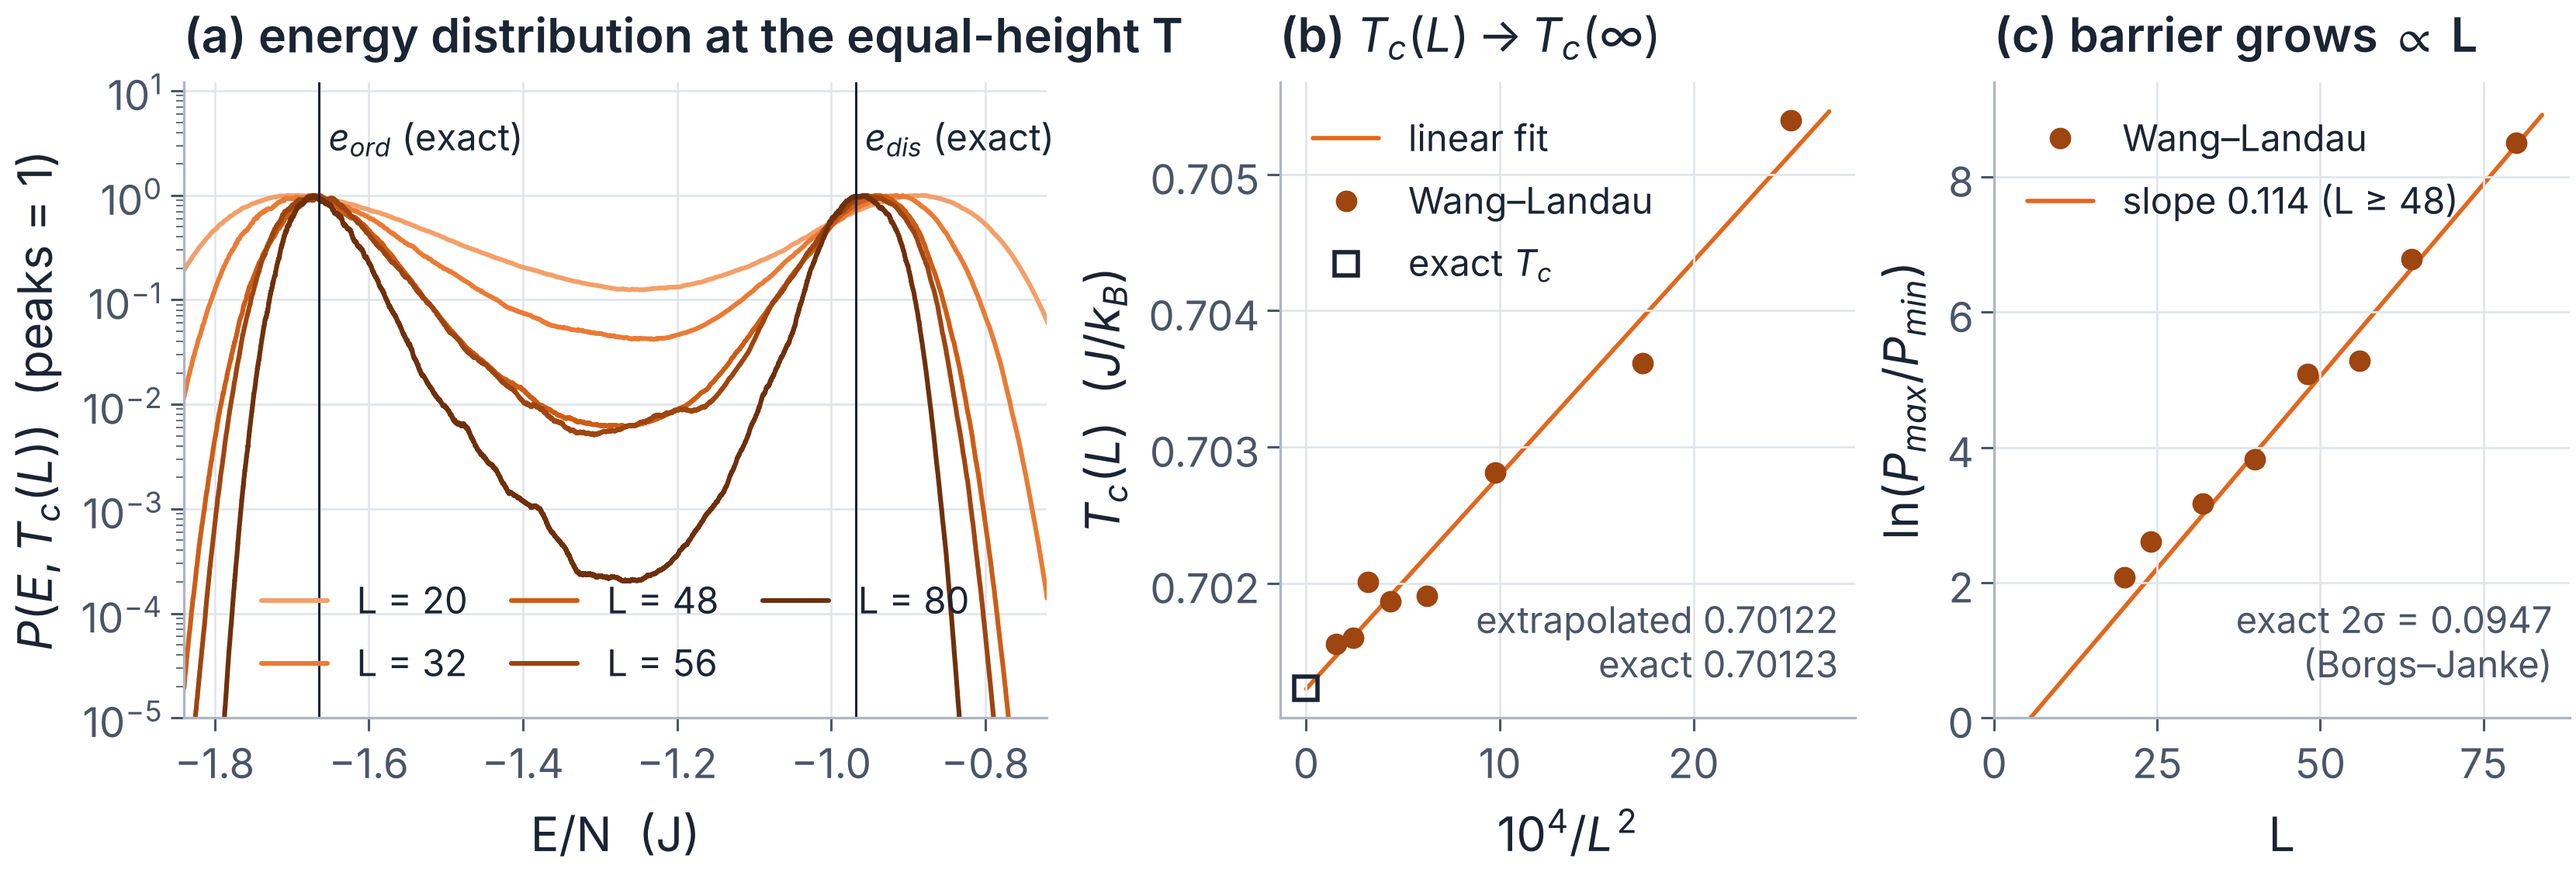
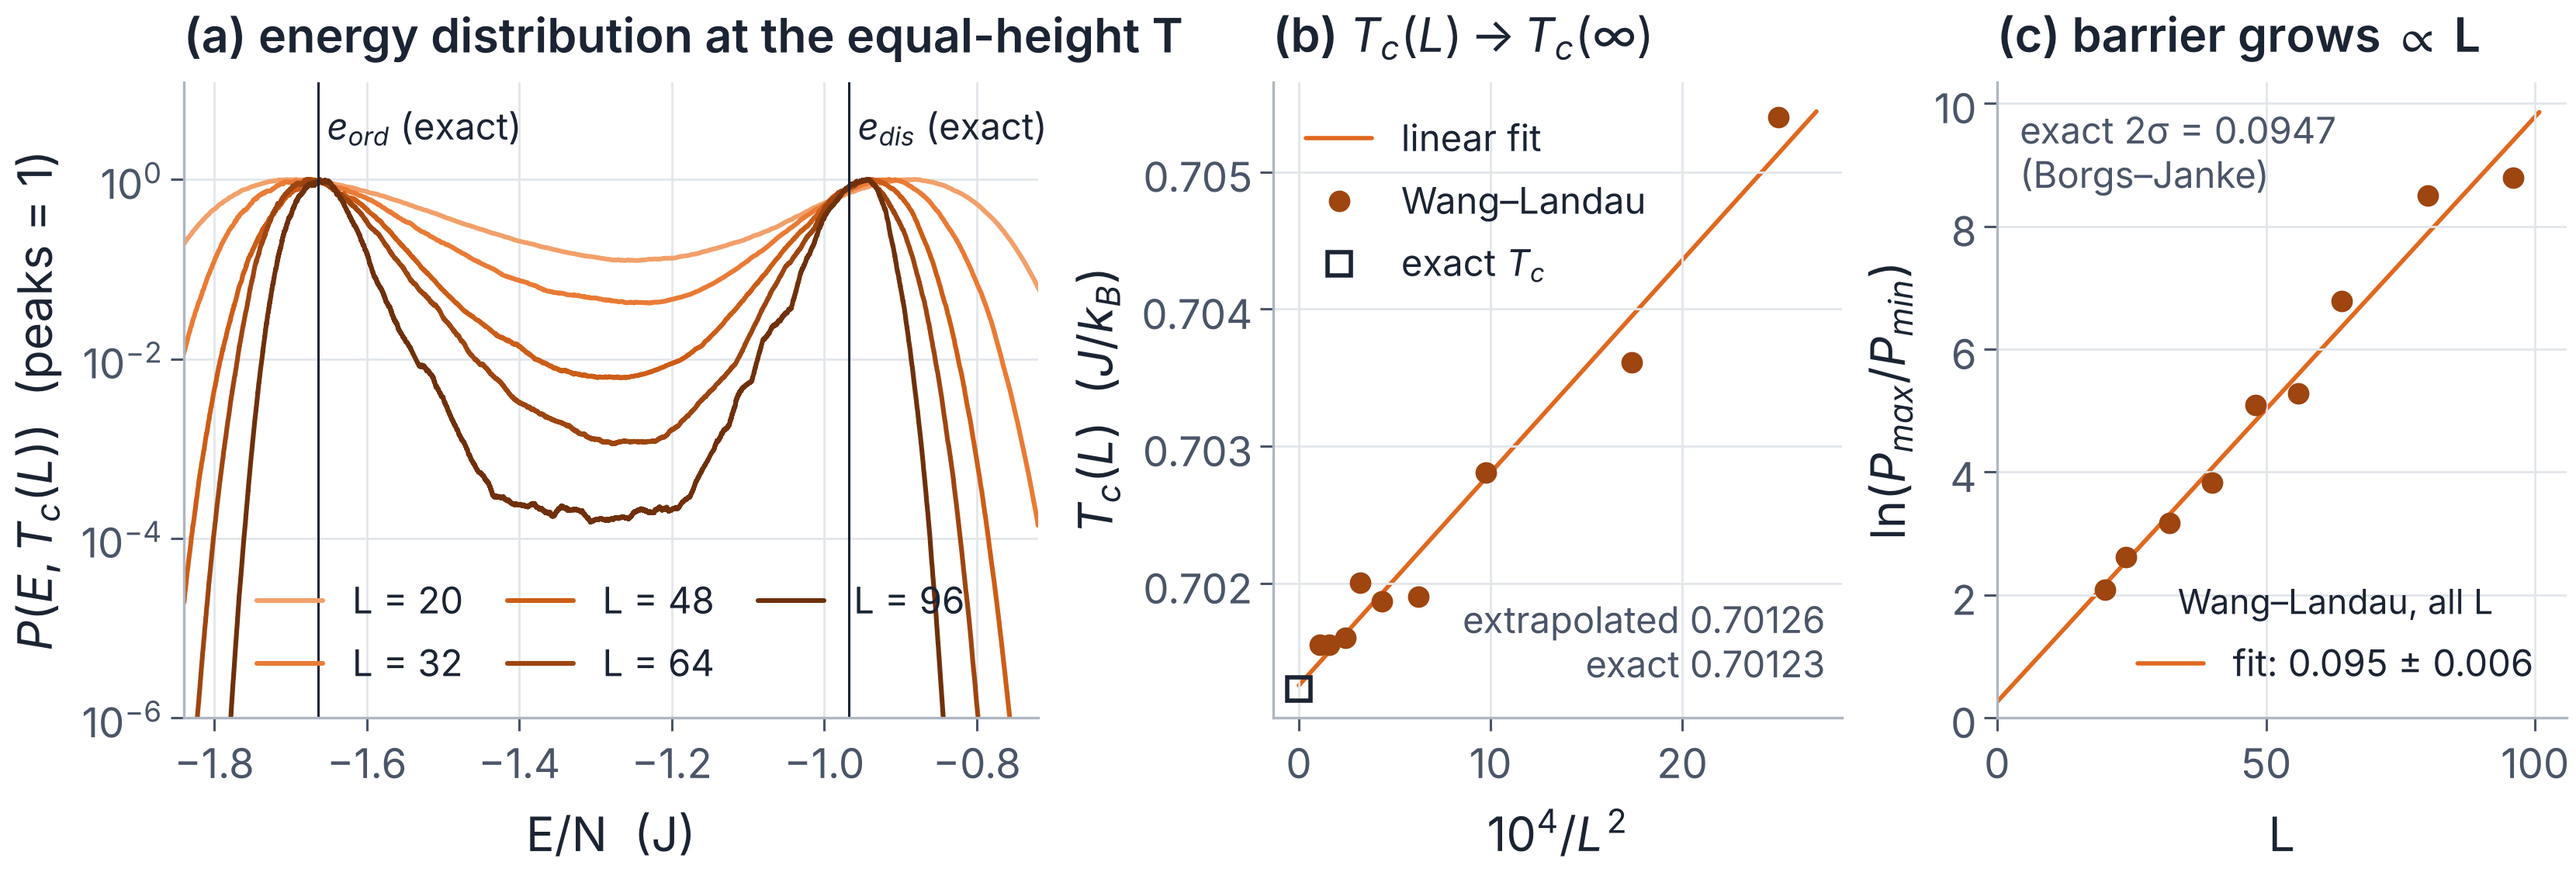
Add Potts L=96, final Potts figure and fits, README results
Claude-Session: https://claude.ai/code/session_014HuTbCrrkrA5Q4uhYbKZR7

diff --git a/make_figures.py b/make_figures.py
@@ -427,7 +427,7 @@ def fig_potts(sizes=None, q=10):
     ax[0].text(eo + 0.012, 2.2, r"$e_{ord}$ (exact)", fontsize=17, color=INK, va="bottom")
     ax[0].text(ed + 0.012, 2.2, r"$e_{dis}$ (exact)", fontsize=17, color=INK, va="bottom")
     ax[0].set(xlabel="E/N  (J)", ylabel=r"$P(E, T_c(L))$  (peaks = 1)", xlim=(-1.84, -0.72),
-              ylim=(1e-5, 12))
+              ylim=(1e-6, 12))
     ax[0].legend(loc="lower center", ncol=3, fontsize=17, columnspacing=1.2)
     panel_label(ax[0], "(a) energy distribution at the equal-height T")
 
@@ -445,20 +445,24 @@ def fig_potts(sizes=None, q=10):
     panel_label(ax[1], r"(b) $T_c(L) \to T_c(\infty)$")
 
     dF = -np.log(r[:, 2])
-    big = r[:, 0] >= 48
-    fit2 = np.polyfit(r[big, 0], dF[big], 1)
-    ax[2].plot(r[:, 0], dF, "o", ms=9, color=ORANGES[3], label="Wang–Landau")
+    fit2, cov2 = np.polyfit(r[:, 0], dF, 1, cov=True)      # all sizes
+    err2 = math.sqrt(cov2[0, 0])
+    ax[2].plot(r[:, 0], dF, "o", ms=9, color=ORANGES[3])
     xx = np.linspace(0, r[:, 0].max() * 1.05, 20)
     ax[2].plot(xx, np.polyval(fit2, xx), color=ORANGE, lw=2, zorder=0,
-               label=f"slope {fit2[0]:.3f} (L ≥ 48)")
+               label=f"fit: {fit2[0]:.3f} ± {err2:.3f}")
     ax[2].set(xlabel="L", ylabel=r"$\ln(P_{max}/P_{min})$", ylim=(0, None), xlim=(0, None))
-    ax[2].legend(loc="upper left", fontsize=17)
-    ax[2].text(0.97, 0.05, "exact 2σ = 0.0947\n(Borgs–Janke)", transform=ax[2].transAxes,
-               ha="right", va="bottom", fontsize=17, color=INK2)
+    ax[2].legend(loc="lower right", fontsize=17, title="Wang–Landau, all L", title_fontsize=16)
+    ax[2].text(0.04, 0.96, "exact 2σ = 0.0947\n(Borgs–Janke)", transform=ax[2].transAxes,
+               ha="left", va="top", fontsize=17, color=INK2)
     panel_label(ax[2], r"(c) barrier grows $\propto$ L")
     save(fig, "potts_q10.png")
     np.savetxt(os.path.join(RES, "potts_table.txt"), r,
                header="L  Tc(L)  Pmin/Pmax  e_ord  e_dis  sweeps", fmt="%.6g")
+    with open(os.path.join(RES, "potts_fits.txt"), "w") as fh:
+        fh.write(f"Tc(L) = a + b/L^2 (all L): Tc(inf) = {fit[1]:.6f}, exact {tc:.6f}\n")
+        fh.write(f"ln(Pmax/Pmin) = c + s*L (all L): s = {fit2[0]:.5f} +- {err2:.5f}, "
+                 f"exact 2*sigma_od = 0.0947\n")
     return r, fit, fit2
 
 

diff --git a/README.md b/README.md
@@ -64,7 +64,8 @@ python make_figures.py              # every figure whose data exist
 | 256×256 specific heat, mean ε(C), 0.4 ≤ T ≤ 8 | 2.6 % (1 % at the peak) | 0.39 % |
 | 64×64 specific heat, mean / max ε(C) | 1.2 % / 4.4 % (2.0×10⁶ sweeps); 0.67 % / 2.5 % with 90 % flatness (5.8×10⁶) | max < 0.7 % (2×10⁷ sweeps) |
 | 2D Ising C_max(L), L = 8…256 | follows the exact (8K_c²/π) ln L growth, within 4 % of exact | – |
-| 10-state Potts, T_c(L → ∞) from equal-height peaks | see `results/potts_table.txt` | T_c = 1/ln(1+√10) = 0.701232 |
+| 10-state Potts (L = 20–96), T_c(L → ∞) from equal-height peaks | 0.70126 | exact 1/ln(1+√10) = 0.70123 |
+| 10-state Potts, slope of ln(P_max/P_min) vs L (= 2σ_od) | 0.095 ± 0.006 | exact 0.0947 (Borgs–Janke) |
 
 Other checks: β(E) = d ln g/dE of the joined 256×256 result equals 1/T_c at
 E/N = −√2; ⟨|M|⟩(T) approaches the Onsager–Yang curve; the window study
